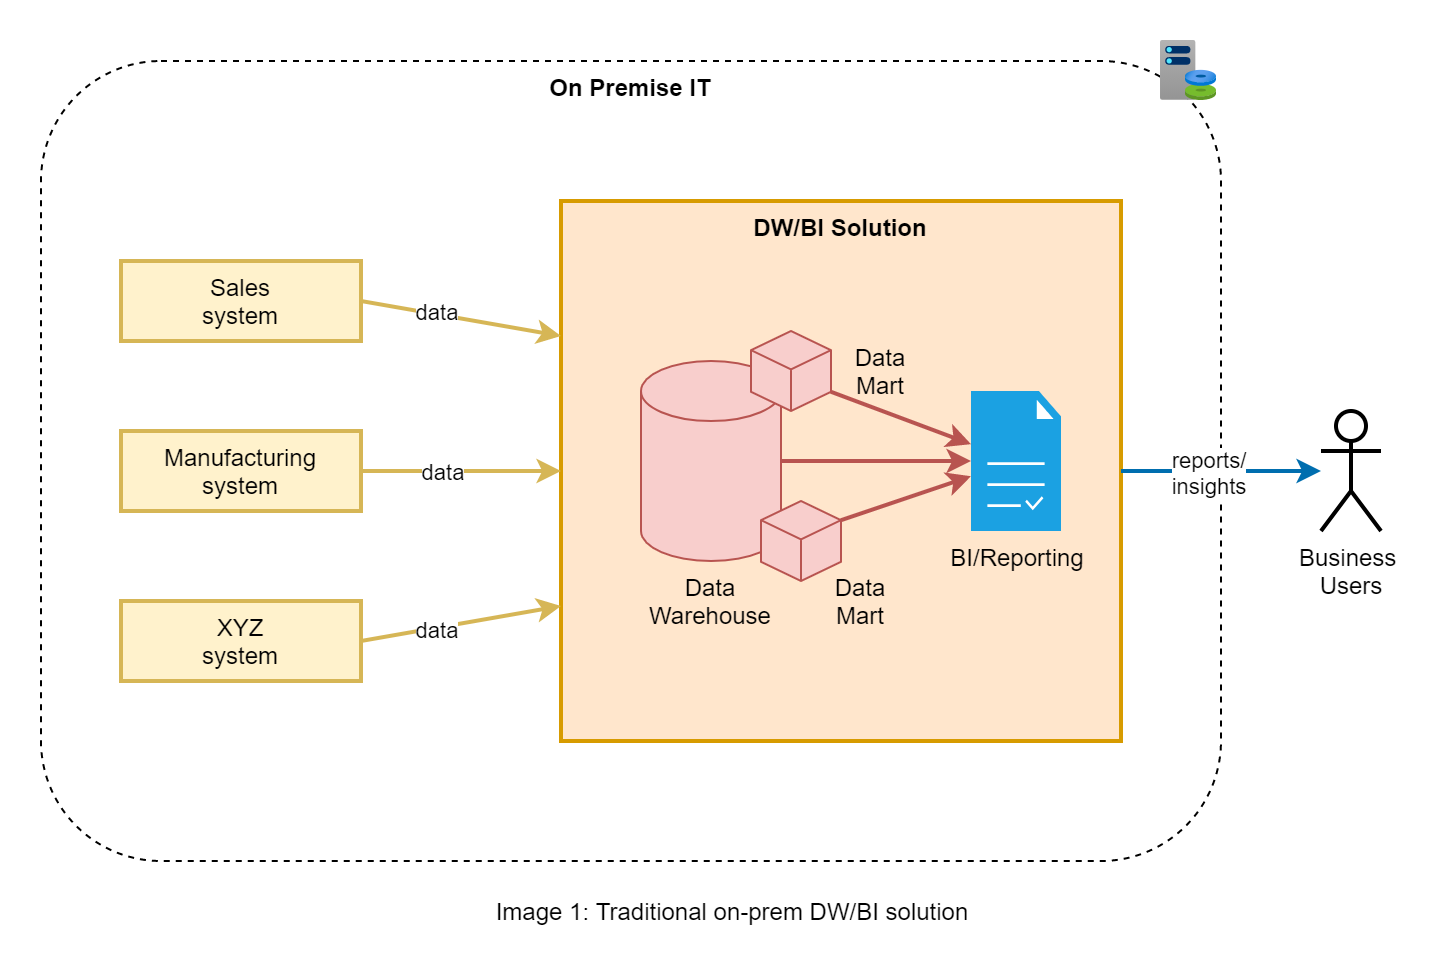
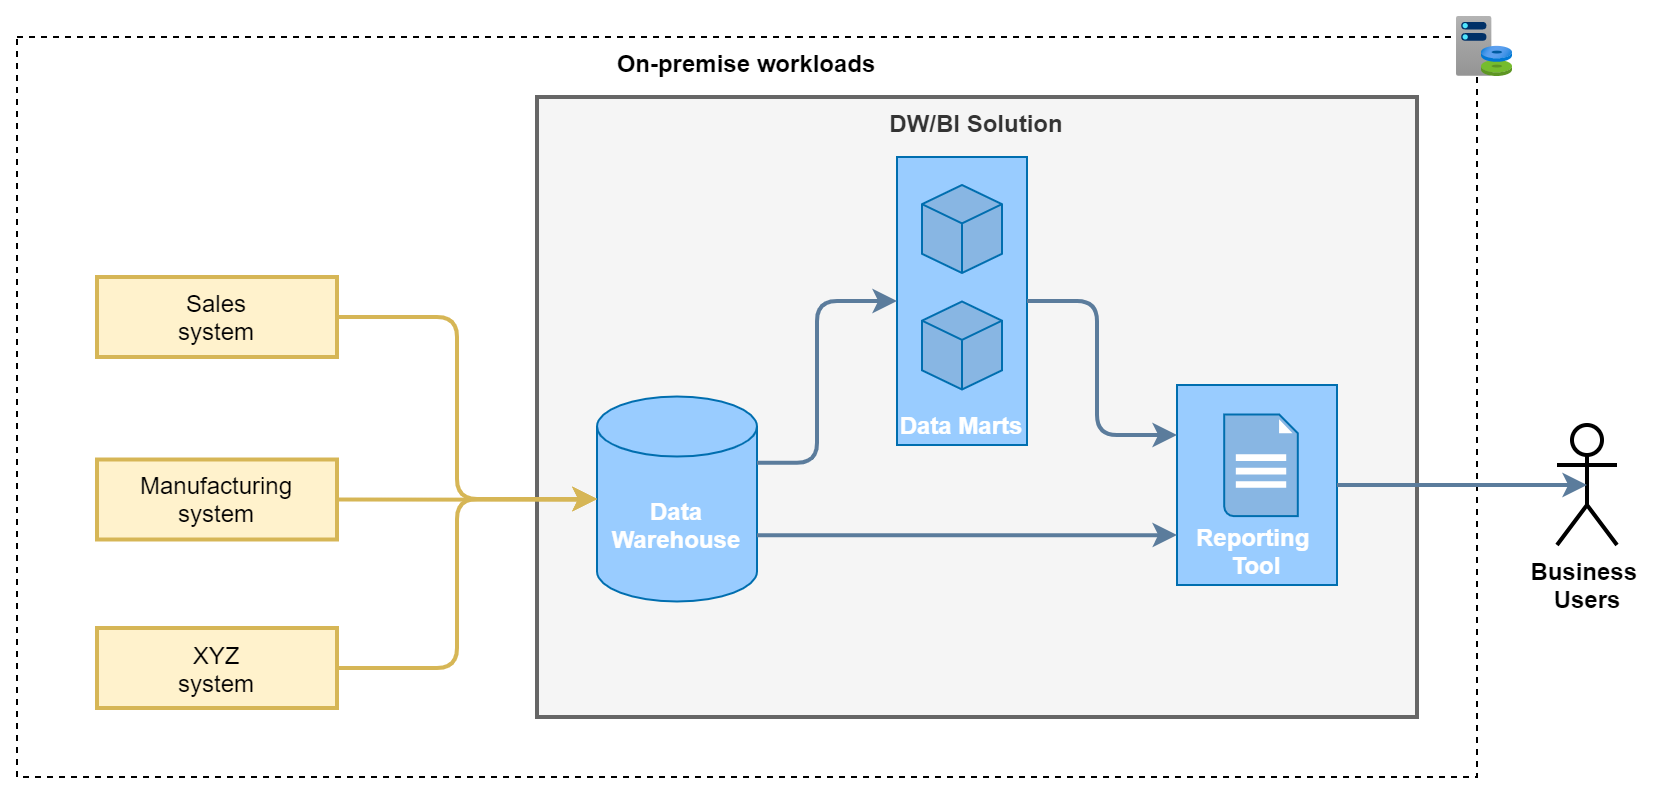
+ more content

diff --git a/_posts/2021-12-12-cloud-data-platform-intro.md b/_posts/2021-12-12-cloud-data-platform-intro.md
@@ -34,21 +34,41 @@ A typical enterprise has a number of IT systems covering various aspects of the 
 
 In order to get some holistic view on the overall state of the enterprise and levarage synergies, companies usually implemented enterprise data warehouses that brough the data from all these systems together, integrated it and presented for BI/reporting. 
 
-![EX](/images/2021-12-12-cdp-intro/traditional-bi.png)
+![Traditional on-prem DW/BI solution](/images/2021-12-12-cdp-intro/traditional-bi.png)
+<p style="text-align: center;">Image 1: Traditional on-prem DW/BI solution</p>
 
-![EX2](/images/profile/2021-12-12-cdp-intro/traditional-bi.png)
+Modern cloud based data platforms do prety much the same, but the scope and use cases are usually much broader and capabities are bigger. Apart from traditional DW/BI, they also enable other scenarios such as Data/AI, Data Hub or some custom data solutions.
 
-Modern cloud based data platforms do prety much the same, but the scope and use cases are usually much broader and capabities are bigger. 
+![Modern cloud based data platform](/images/2021-12-12-cdp-intro/cloud-dp.png)
+<p style="text-align: center;">Image 2: Modern cloud based data platform</p>
+
+Of course these scenarios were and are also doable in traditional on-prem setup. But now its much easier to build and run them in the cloud thanks to its elasticity, scalability and rich ecosystem of managed tools and resouces. You don't need heavy investments in on-prem infrastructure and skills required to run it - cloud vendor (usually) does that for you!
 
 ### Use cases
 
-The typical use cases and scenarios for modern cloud based data platforms are:
+As mentioned above the typical use cases and scenarios for modern cloud-based data platforms are:
 
 #### Analytics
 
-BI & data warehousing is still a thing [inmon link]. But since we live in cloud era and companies are intensively going to the cloud, it often makes sense to migrate a legacy DW as well. Or build a new one using modern, cloud native technologies such as Snowflake or Azure Synapse Analytics.
+BI & data warehousing is still a thing [inmon link]. However, since we live in the cloud era, it often makes sense to migrate a legacy DW as well as a part of some digital transformation or cloud migration endevour. Or build a new one from scratch using modern, cloud native technologies such as Snowflake or Azure Synapse Analytics.
+
+![Cloud based data analytics solution](/images/2021-12-12-cdp-intro/cloud-dw.png)
+<p style="text-align: center;">Image 3: Cloud based data analytics solution</p>
+
+In such solution, the data is first ingested from the source systems into the [data lake](https://databricks.com/discover/data-lakes/introduction), which is a primary storage location and a key component. Then it is processed (deduplicated, cleaned, trasformed) using some ETL tools and loaded in efficent way ([MPP](https://www.sisense.com/glossary/mpp-database/)) into the data warehouse. On top of the data warehouse there are ususally some data marts which are slices of ceratin business areas and act as semantic models that are easy to understand to the business users.
+
+Both data warehouse and data marts can be then queried using some reporting solution like Power BI, Tableau or QlikView. This repoting tool is often referred to as a "frontend" or "BI" part and technically its a 3<sup>rd</sup> party software, but logically it is also belongs to the data platform.
+
+There are also some other approaches emerging like [data lakehouse](https://databricks.com/blog/2020/01/30/what-is-a-data-lakehouse.html) but this is the most common design as of now.
 
 #### AI, Data Science & ML
+
+Data science and machine learning are another popular workload that is a good fit for the cloud. Availability of certain storage (HDFS compatible data lake), compute (large VM instances/clusters, Kubernetes, big data tools like Spark) resources and MLOps enablers (Azure ML, multiple API hosting tools like AppServices, Azure Functions, Azure DevOps) make it relatively easy to build and run scalable Data & AI solution.
+
+![Cloud based data & AI solution](/images/2021-12-12-cdp-intro/cloud-ai.png)
+<p style="text-align: center;">Image 4: Cloud based data & AI solution</p>
+
+A typical setup of such solution usally consists of a data lake (the same datlake used by Analytics workload!), some ETL / data processing tools, MLOps environment and Model hosting resources.
 
 #### Use case specfic solutions
 
